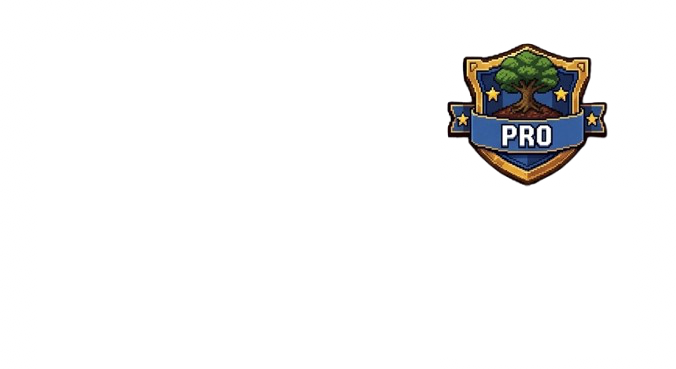
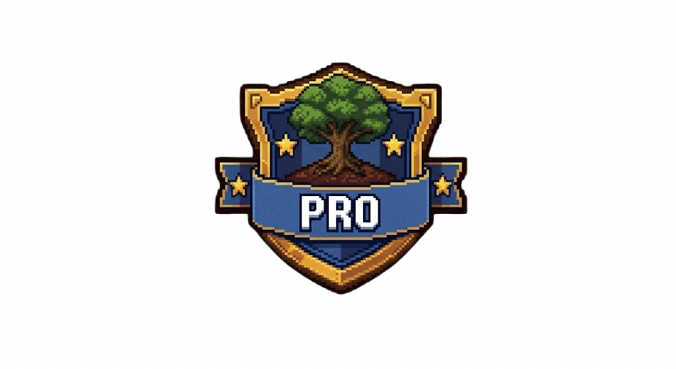
Fixed back button glitch + pro image scale/padding

Changed region(s): [[0.3107, 0.1192, 0.9009, 0.8049]]

diff --git a/main.py b/main.py
@@ -1,5 +1,6 @@
 import customtkinter as ctk
 from tkinter import Canvas
+from tkinter import *
 import random
 targetnumber = [None]
 clockminutes = [30]
@@ -21,6 +22,8 @@ startclock = [30]
 needleafter = [None]
 highlightafter = [None]
 afterid = None
+badgesearned = {"novice": False, 'pro': False, 'hacker': False, 'god': False}
+badgesearned = {'novice': False, 'pro': False, "hacker": False, 'god': False}
 app = ctk.CTk()
 app.title("Pop The Clock!")
 app.geometry("700x819")
@@ -369,6 +372,7 @@ def highlightnumb(gen=None):
 fading = {}
 def showwin():   
     gameover[0] = True
+    badgesearned['novice'] = True
     inputlocked[0] = True
     dimimg = Image.new("RGBA", (700, 818), (0, 0, 0, 140))
     dimphoto = ImageTk.PhotoImage(dimimg)
@@ -581,16 +585,18 @@ def main(canvas_img_unused=None, canvasbg_unused=None, straight_to_noob=False):
                 menucanvas.delete(item)
         menucanvas.create_text(353, 33, text="BADGES", fill='#968d8d', font=("Press Start 2P", 30))
         menucanvas.create_text(350,30, text='BADGES', fill='white', font=("Press Start 2P", 30))
-        badgebckshdw = menucanvas.create_text(42, 41, text="←", font=("Arial", 39), fill="#968d8d")
-        badgebck = menucanvas.create_text(39, 38, text="←", font=("Arial", 39), fill='white')
+        badgebckshdw = menucanvas.create_text(40, 12, text="←", font=("Arial", 39), fill="#968d8d")
+        badgebck = menucanvas.create_text(38, 9, text="←", font=("Arial", 39), fill='white')
         noviceimg = Image.open("Assets/novice.png")
         imgnovice = ImageTk.PhotoImage(noviceimg)
         menucanvas._noviceimg = imgnovice
         menucanvas.create_image(150, 200, anchor='center', image=imgnovice)
-        proimg = Image.open("Assets/pro.png").resize((1100, 700))
-        imgpro = ImageTk.PhotoImage(proimg)
+        orginalpro = Image.open("Assets/pro.png")
+        width, height = orginalpro.size
+        scaledimg = orginalpro.resize((int(width * 1.1), int(height * 1.1)), Image.Resampling.LANCZOS)
+        imgpro = ImageTk.PhotoImage(scaledimg)
         menucanvas._proimg = imgpro
-        menucanvas.create_image(240, 330, anchor='center', image=imgpro)
+        menucanvas.create_image(538, 205, anchor='center', image=imgpro)
         hackerimg = Image.open("Assets/hacker.png")
         imghacker = ImageTk.PhotoImage(hackerimg)
         menucanvas._hackerimg = imghacker
@@ -620,8 +626,8 @@ def main(canvas_img_unused=None, canvasbg_unused=None, straight_to_noob=False):
         menucanvas.tag_bind(badgebckshdw, "<Button-1>", goback)
         menucanvas.create_text(152, 352, text="NOVICE", fill='#968d8d', font=("Press Start 2P", 10))
         menucanvas.create_text(150, 350, text="NOVICE", fill='white', font=("Press Start 2P", 10))
-        menucanvas.create_text(550, 352, text="PRO", fill='#968d8d', font=("Press Start 2P",10))
-        menucanvas.create_text(548, 350, text="PRO", fill='white', font=("Press Start 2P", 10))
+        menucanvas.create_text(545, 352, text="PRO", fill='#968d8d', font=("Press Start 2P",10))
+        menucanvas.create_text(543, 350, text="PRO", fill='white', font=("Press Start 2P", 10))
         menucanvas.create_text(152, 652, text='HACKER', fill='#968d8d', font=("Press Start 2P", 10))
         menucanvas.create_text(150, 650, text='HACKER', fill='white', font=("Press Start 2P", 10))
         menucanvas.create_text(523, 652, text='GOD', font=("Press Start 2P", 10), fill='#968d8d')